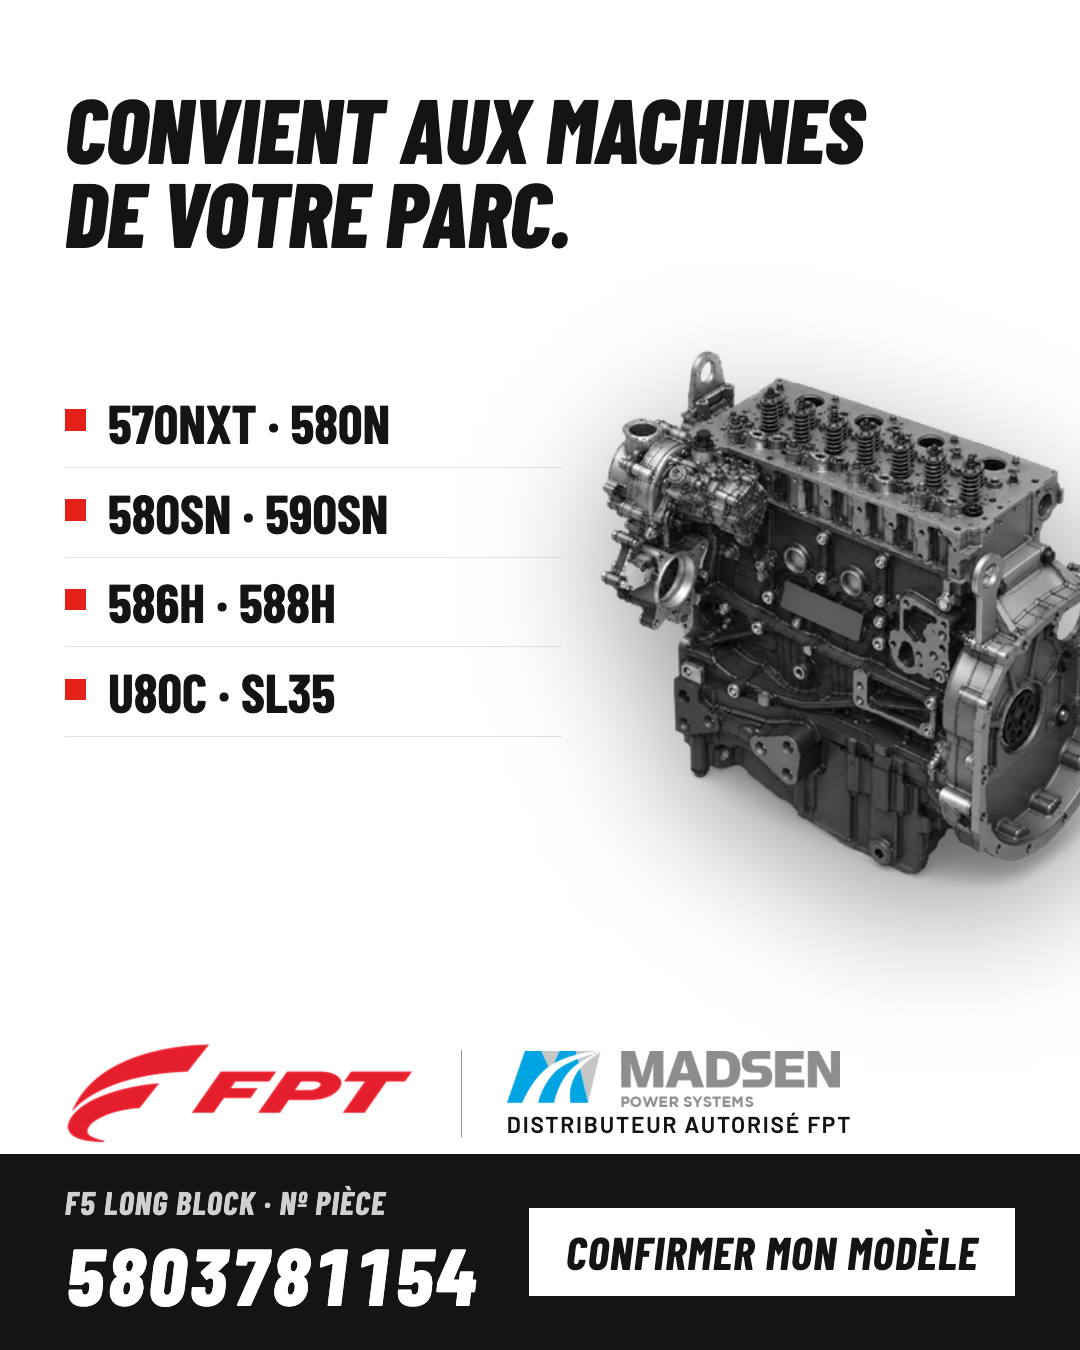
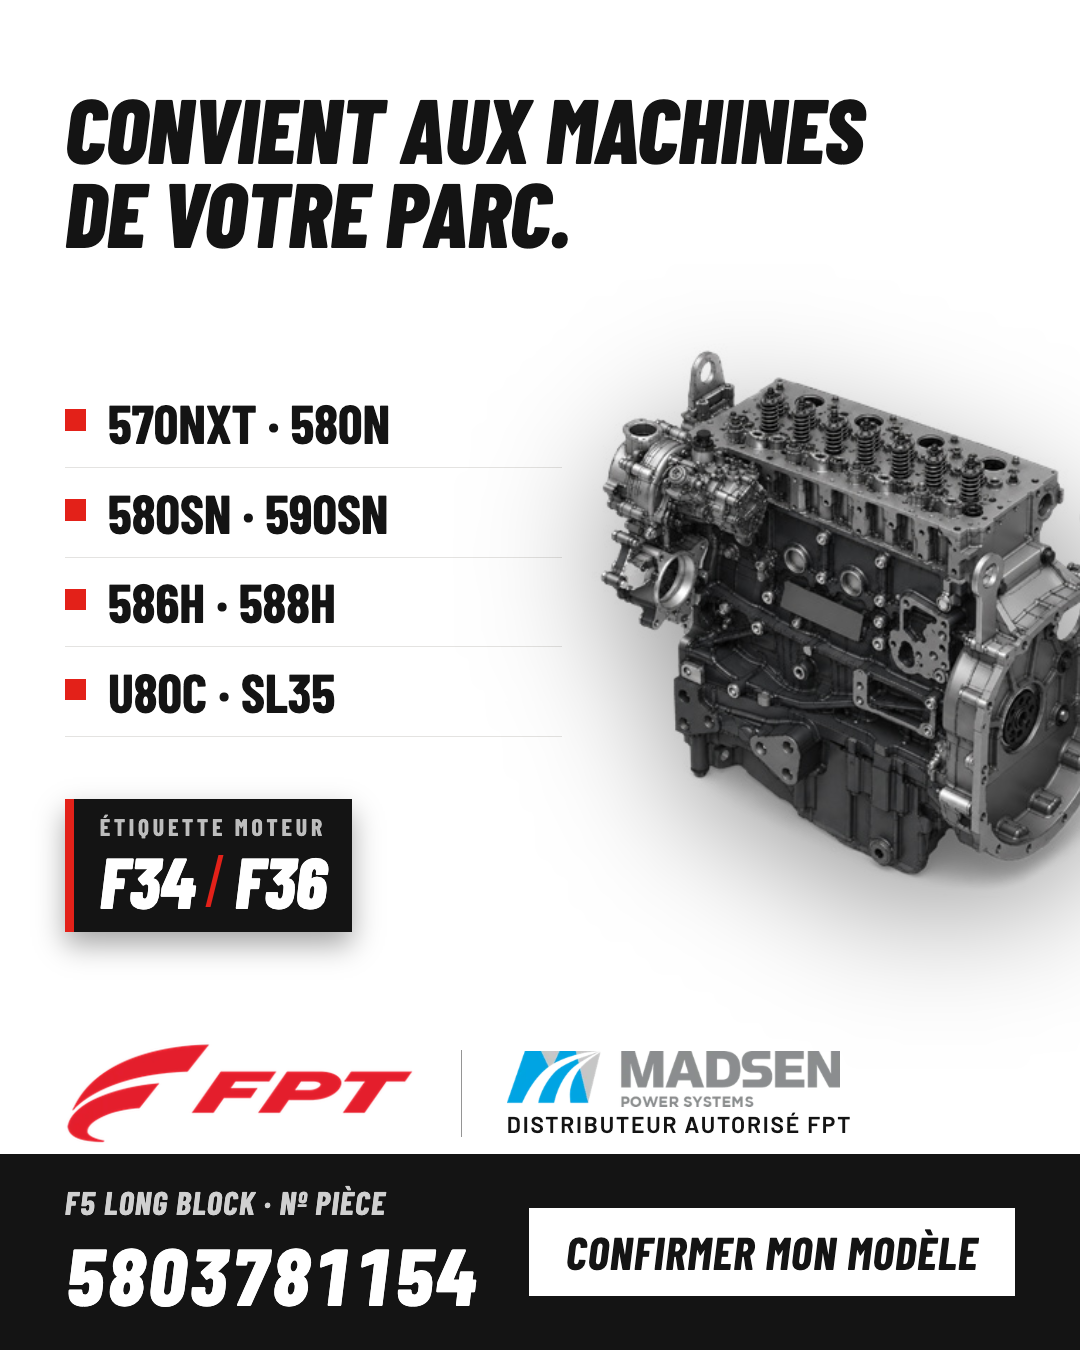
Ads: F34/F36 engine tag on all 20 static ads; stock claims replaced (Find your block); Google copy and slide text aligned

Changed region(s): [[0.0306, 0.5911, 0.3361, 0.7156]]

diff --git a/index.html b/index.html
@@ -110,8 +110,8 @@ body{background:#0B0B0B;-webkit-font-smoothing:antialiased;overflow:hidden}
 <p style="font-size:28px;line-height:1.4;color:#4A4B4F">Reusable components move to the new unit. The repair can cost less than a complete engine.</p>
 </div>
 <div style="display:flex;flex-direction:column;gap:12px;border-left:6px solid #E32119;padding:0px 0px 0px 32px">
-<h3 style="font-family:'Barlow Condensed', 'Arial Narrow', sans-serif;font-style:italic;font-weight:700;text-transform:uppercase;font-size:40px;line-height:1">Stocked in Canada</h3>
-<p style="font-size:28px;line-height:1.4;color:#4A4B4F">Ships from Madsen stock. No core exchange, no waiting for a rebuild.</p>
+<h3 style="font-family:'Barlow Condensed', 'Arial Narrow', sans-serif;font-style:italic;font-weight:700;text-transform:uppercase;font-size:40px;line-height:1">Availability by part number</h3>
+<p style="font-size:28px;line-height:1.4;color:#4A4B4F">Madsen confirms stock and lead time per part number. No core exchange, no waiting for a rebuild.</p>
 </div>
 <div style="display:flex;flex-direction:column;gap:12px;border-left:6px solid #E32119;padding:0px 0px 0px 32px">
 <h3 style="font-family:'Barlow Condensed', 'Arial Narrow', sans-serif;font-style:italic;font-weight:700;text-transform:uppercase;font-size:40px;line-height:1">Genuine FPT</h3>
@@ -438,7 +438,7 @@ body{background:#0B0B0B;-webkit-font-smoothing:antialiased;overflow:hidden}
 <p style="font-size:24px;line-height:1.4;color:#C9C9CB">Independent shops and dealer service bays.</p>
 <p style="font-size:24px;line-height:1.4"><b>Pain:</b> a tractor stuck in the shop in season, the customer calling every day.</p>
 <p style="font-size:24px;line-height:1.4"><b>Searches:</b> model and engine code.</p>
-<p style="font-size:24px;line-height:1.4"><b>Convinced by:</b> exact fit, in stock, original parts reused.</p>
+<p style="font-size:24px;line-height:1.4"><b>Convinced by:</b> exact fit, original parts reused.</p>
 <p style="font-size:24px;line-height:1.4;color:#FF5A4F"><b>Google · Meta</b></p>
 </div>
 <div style="display:flex;flex-direction:column;gap:18px;background:#FBFBF9;border-top:6px solid #E32119;padding:40px">
@@ -456,7 +456,7 @@ body{background:#0B0B0B;-webkit-font-smoothing:antialiased;overflow:hidden}
 <p style="font-size:24px;line-height:1.4;color:#4A4B4F">Case IH and New Holland dealers, parts resellers.</p>
 <p style="font-size:24px;line-height:1.4"><b>Pain:</b> too many SKUs, slow stock.</p>
 <p style="font-size:24px;line-height:1.4"><b>Searches:</b> part numbers, distributor terms.</p>
-<p style="font-size:24px;line-height:1.4"><b>Convinced by:</b> one block covers many applications, with Madsen stock behind it.</p>
+<p style="font-size:24px;line-height:1.4"><b>Convinced by:</b> one block covers many applications, with Madsen behind it.</p>
 <p style="font-size:24px;line-height:1.4"><b>Email · Madsen sales</b></p>
 </div>
 </div>
@@ -518,7 +518,7 @@ body{background:#0B0B0B;-webkit-font-smoothing:antialiased;overflow:hidden}
 <p style="font-size:24px;font-weight:600;letter-spacing:4px;text-transform:uppercase;color:#C9C9CB">Line of development</p>
 <div style="display:grid;grid-template-columns:1fr 1fr 1fr;gap:0px">
 <div style="display:flex;flex-direction:column;gap:8px;background:#2B2B2B;padding:28px 32px"><p style="font-size:28px;font-weight:700">Launch · origin</p><p style="font-size:24px;line-height:1.4;color:#C9C9CB">"Original inside": who makes the engine.</p></div>
-<div style="display:flex;flex-direction:column;gap:8px;background:#3A3A3B;padding:28px 32px"><p style="font-size:28px;font-weight:700">Sustain · fit and downtime</p><p style="font-size:24px;line-height:1.4;color:#C9C9CB">Compatibility by model; "Tractor down. Block in stock."</p></div>
+<div style="display:flex;flex-direction:column;gap:8px;background:#3A3A3B;padding:28px 32px"><p style="font-size:28px;font-weight:700">Sustain · fit and downtime</p><p style="font-size:24px;line-height:1.4;color:#C9C9CB">Compatibility by model; "Tractor down. Find your block."</p></div>
 <div style="display:flex;flex-direction:column;gap:8px;background:#E32119;padding:28px 32px"><p style="font-size:28px;font-weight:700">Peaks · planting and harvest</p><p style="font-size:24px;line-height:1.4">More budget before spring and fall, when downtime costs most.</p></div>
 </div>
 </div>
@@ -563,7 +563,7 @@ body{background:#0B0B0B;-webkit-font-smoothing:antialiased;overflow:hidden}
 <p style="font-size:24px;font-weight:700;color:#202124">Sponsored</p>
 <p style="font-size:24px;color:#202124">madsenpower.ca › F5 › Long-Block</p>
 <p style="font-size:32px;line-height:1.3;color:#1A0DAB">FPT F5 Long Block | New FPT F5 Long Block Engine | Request a Quote Today</p>
-<p style="font-size:24px;line-height:1.45;color:#4D5156">Covers F34 and F36 engines. Complete cylinder head, crank train and timing gears. Stocked in Canada for fast replacement.</p>
+<p style="font-size:24px;line-height:1.45;color:#4D5156">Covers F34 and F36 engines. Complete cylinder head, crank train and timing gears. Tell us your engine tag, F34 or F36.</p>
 <p style="font-size:24px;color:#6B6C70">Ad preview, F5 brand group</p>
 </div>
 </div>
@@ -593,7 +593,7 @@ body{background:#0B0B0B;-webkit-font-smoothing:antialiased;overflow:hidden}
 <p style="font-size:24px;font-weight:700;color:#202124">Sponsored</p>
 <p style="font-size:24px;color:#202124">madsenpower.ca › F5 › Long-Block</p>
 <p style="font-size:32px;line-height:1.3;color:#1A0DAB">FPT F5 Long Block | Nouveau long block FPT F5 | Demandez une soumission</p>
-<p style="font-size:24px;line-height:1.45;color:#4D5156">Couvre les moteurs F34 et F36. Culasse complète, train mobile et distribution. En stock au Canada pour un remplacement rapide.</p>
+<p style="font-size:24px;line-height:1.45;color:#4D5156">Couvre les moteurs F34 et F36. Culasse complète, train mobile et distribution. Indiquez l’étiquette moteur, F34 ou F36.</p>
 <p style="font-size:24px;color:#6B6C70">Ad preview, F5 brand group (French)</p>
 </div>
 </div>
@@ -658,11 +658,11 @@ body{background:#0B0B0B;-webkit-font-smoothing:antialiased;overflow:hidden}
 </div>
 <div style="display:flex;flex-direction:row;gap:72px;align-items:start">
 <div style="display:flex;flex-direction:row;gap:36px">
-<img src="assets/ad13-down-ag.png" alt="Ad: Tractor down. Block in stock." style="width:500px;height:625px;object-fit:cover;box-shadow:0px 12px 30px rgba(20,20,20,0.2)">
+<img src="assets/ad13-down-ag.png" alt="Ad: Tractor down. Find your block." style="width:500px;height:625px;object-fit:cover;box-shadow:0px 12px 30px rgba(20,20,20,0.2)">
 <img src="assets/ad13-fit-ag.png" alt="Ad: Fits the tractors in your shop, models and part number" style="width:500px;height:625px;object-fit:cover;box-shadow:0px 12px 30px rgba(20,20,20,0.2)">
 </div>
 <div style="display:flex;flex-direction:column;gap:36px;width:556px">
-<div style="display:flex;flex-direction:column;gap:8px;border-left:6px solid #E32119;padding:0px 0px 0px 24px"><p style="font-size:32px;font-weight:700">Downtime</p><p style="font-size:26px;line-height:1.4;color:#4A4B4F">Tractor down. Block in stock. Check availability.</p></div><div style="display:flex;flex-direction:column;gap:8px;border-left:6px solid #141414;padding:0px 0px 0px 24px"><p style="font-size:32px;font-weight:700">Fit</p><p style="font-size:26px;line-height:1.4;color:#4A4B4F">Models and part number, with F34 and F36 named in the post text. Carousel and remarketing.</p></div>
+<div style="display:flex;flex-direction:column;gap:8px;border-left:6px solid #E32119;padding:0px 0px 0px 24px"><p style="font-size:32px;font-weight:700">Downtime</p><p style="font-size:26px;line-height:1.4;color:#4A4B4F">Tractor down. Find your block. Check availability.</p></div><div style="display:flex;flex-direction:column;gap:8px;border-left:6px solid #141414;padding:0px 0px 0px 24px"><p style="font-size:32px;font-weight:700">Fit</p><p style="font-size:26px;line-height:1.4;color:#4A4B4F">Models and part number, with the F34 / F36 engine tag on every ad. Carousel and remarketing.</p></div>
 
 </div>
 </div>
@@ -674,7 +674,7 @@ body{background:#0B0B0B;-webkit-font-smoothing:antialiased;overflow:hidden}
 <h2 style="font-family:'Barlow Condensed', 'Arial Narrow', sans-serif;font-style:italic;font-weight:800;text-transform:uppercase;font-size:72px;line-height:1">Same line, another machine</h2>
 </div>
 <div style="display:flex;flex-direction:row;justify-content:space-between">
-<img src="assets/ad13-down-cx.png" alt="Ad: Backhoe down. Block in stock." style="width:380px;height:475px;object-fit:cover;box-shadow:0px 12px 30px rgba(20,20,20,0.2)"><img src="assets/ad13-power-cx.png" alt="Ad: Keep the machine. Restore the power." style="width:380px;height:475px;object-fit:cover;box-shadow:0px 12px 30px rgba(20,20,20,0.2)"><img src="assets/ad13-fit-cx.png" alt="Ad: Fits the machines in your fleet" style="width:380px;height:475px;object-fit:cover;box-shadow:0px 12px 30px rgba(20,20,20,0.2)"><img src="assets/ad13-machine-cx.png" alt="Ad: More hours. Same machine." style="width:380px;height:475px;object-fit:cover;box-shadow:0px 12px 30px rgba(20,20,20,0.2)">
+<img src="assets/ad13-down-cx.png" alt="Ad: Backhoe down. Find your block." style="width:380px;height:475px;object-fit:cover;box-shadow:0px 12px 30px rgba(20,20,20,0.2)"><img src="assets/ad13-power-cx.png" alt="Ad: Keep the machine. Restore the power." style="width:380px;height:475px;object-fit:cover;box-shadow:0px 12px 30px rgba(20,20,20,0.2)"><img src="assets/ad13-fit-cx.png" alt="Ad: Fits the machines in your fleet" style="width:380px;height:475px;object-fit:cover;box-shadow:0px 12px 30px rgba(20,20,20,0.2)"><img src="assets/ad13-machine-cx.png" alt="Ad: More hours. Same machine." style="width:380px;height:475px;object-fit:cover;box-shadow:0px 12px 30px rgba(20,20,20,0.2)">
 </div>
 <p style="font-size:28px;line-height:1.4;color:#4A4B4F">Same layout for backhoes and loaders. The words change: <b style="color:#141414">seasons</b> on the farm, <b style="color:#141414">hours</b> on the job site.</p>
 </section>
@@ -720,11 +720,11 @@ body{background:#0B0B0B;-webkit-font-smoothing:antialiased;overflow:hidden}
 </div>
 <div style="display:flex;flex-direction:row;gap:72px;align-items:start">
 <div style="display:flex;flex-direction:row;gap:36px">
-<img src="assets/ad13-down-ag-fr.png" alt="Ad: Tracteur à l’arrêt. Bloc en stock." style="width:500px;height:625px;object-fit:cover;box-shadow:0px 12px 30px rgba(20,20,20,0.2)">
+<img src="assets/ad13-down-ag-fr.png" alt="Ad: Tracteur à l’arrêt. Trouvez votre bloc." style="width:500px;height:625px;object-fit:cover;box-shadow:0px 12px 30px rgba(20,20,20,0.2)">
 <img src="assets/ad13-fit-ag-fr.png" alt="Ad: Convient aux tracteurs de votre atelier, modèles et numéro de pièce" style="width:500px;height:625px;object-fit:cover;box-shadow:0px 12px 30px rgba(20,20,20,0.2)">
 </div>
 <div style="display:flex;flex-direction:column;gap:36px;width:556px">
-<div style="display:flex;flex-direction:column;gap:8px;border-left:6px solid #E32119;padding:0px 0px 0px 24px"><p style="font-size:32px;font-weight:700">Downtime</p><p style="font-size:26px;line-height:1.4;color:#4A4B4F">Tracteur à l’arrêt. Bloc en stock. Vérifier la disponibilité.</p></div><div style="display:flex;flex-direction:column;gap:8px;border-left:6px solid #141414;padding:0px 0px 0px 24px"><p style="font-size:32px;font-weight:700">Fit</p><p style="font-size:26px;line-height:1.4;color:#4A4B4F">Convient aux tracteurs de votre atelier. Models and part number, with F34 and F36 named in the post text. Carousel and remarketing.</p></div>
+<div style="display:flex;flex-direction:column;gap:8px;border-left:6px solid #E32119;padding:0px 0px 0px 24px"><p style="font-size:32px;font-weight:700">Downtime</p><p style="font-size:26px;line-height:1.4;color:#4A4B4F">Tracteur à l’arrêt. Trouvez votre bloc. Vérifier la disponibilité.</p></div><div style="display:flex;flex-direction:column;gap:8px;border-left:6px solid #141414;padding:0px 0px 0px 24px"><p style="font-size:32px;font-weight:700">Fit</p><p style="font-size:26px;line-height:1.4;color:#4A4B4F">Convient aux tracteurs de votre atelier. Models and part number, with the F34 / F36 engine tag on every ad. Carousel and remarketing.</p></div>
 
 </div>
 </div>
@@ -736,7 +736,7 @@ body{background:#0B0B0B;-webkit-font-smoothing:antialiased;overflow:hidden}
 <h2 style="font-family:'Barlow Condensed', 'Arial Narrow', sans-serif;font-style:italic;font-weight:800;text-transform:uppercase;font-size:72px;line-height:1">Same line, another machine</h2>
 </div>
 <div style="display:flex;flex-direction:row;justify-content:space-between">
-<img src="assets/ad13-down-cx-fr.png" alt="Ad: Rétrocaveuse à l’arrêt. Bloc en stock." style="width:380px;height:475px;object-fit:cover;box-shadow:0px 12px 30px rgba(20,20,20,0.2)"><img src="assets/ad13-power-cx-fr.png" alt="Ad: Gardez la machine. Retrouvez la force." style="width:380px;height:475px;object-fit:cover;box-shadow:0px 12px 30px rgba(20,20,20,0.2)"><img src="assets/ad13-fit-cx-fr.png" alt="Ad: Convient aux machines de votre parc" style="width:380px;height:475px;object-fit:cover;box-shadow:0px 12px 30px rgba(20,20,20,0.2)"><img src="assets/ad13-machine-cx-fr.png" alt="Ad: Plus d’heures. Même machine." style="width:380px;height:475px;object-fit:cover;box-shadow:0px 12px 30px rgba(20,20,20,0.2)">
+<img src="assets/ad13-down-cx-fr.png" alt="Ad: Rétrocaveuse à l’arrêt. Trouvez votre bloc." style="width:380px;height:475px;object-fit:cover;box-shadow:0px 12px 30px rgba(20,20,20,0.2)"><img src="assets/ad13-power-cx-fr.png" alt="Ad: Gardez la machine. Retrouvez la force." style="width:380px;height:475px;object-fit:cover;box-shadow:0px 12px 30px rgba(20,20,20,0.2)"><img src="assets/ad13-fit-cx-fr.png" alt="Ad: Convient aux machines de votre parc" style="width:380px;height:475px;object-fit:cover;box-shadow:0px 12px 30px rgba(20,20,20,0.2)"><img src="assets/ad13-machine-cx-fr.png" alt="Ad: Plus d’heures. Même machine." style="width:380px;height:475px;object-fit:cover;box-shadow:0px 12px 30px rgba(20,20,20,0.2)">
 </div>
 <p style="font-size:28px;line-height:1.4;color:#4A4B4F">Same layout for backhoes and loaders. The words change: <b style="color:#141414">saisons</b> on the farm, <b style="color:#141414">heures</b> on the job site. "Rétrocaveuse" is the Quebec word for backhoe.</p>
 </section>
